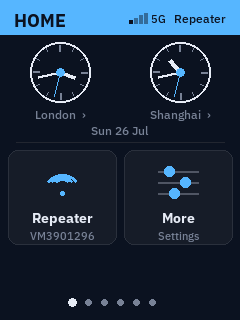
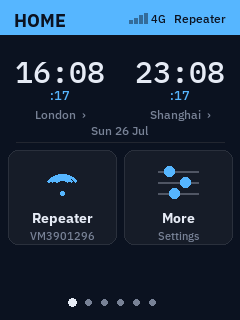
Update README/screenshots for digital-default clock and OpenClash button
- panel_clock.png now shows digital (the new default) instead of analog;
  renamed the analog example to panel_clock_analog.png so the Home hero
  image and the Digital/Analog comparison table both stay accurate
  rather than silently showing the same style twice.
- Refreshed panel_openclash.png (Update Subscription button, no more
  luci/IP line) and documented both this release's changes in the
  Panels section.

diff --git a/README.md b/README.md
@@ -22,13 +22,13 @@ RGB565). Pure Python, one file.
 | ![Monitor](screenshots/panel_monitor.png) | ![Currency](screenshots/panel_fx.png) | ![OpenClash](screenshots/panel_openclash.png) |
 
 **Home** — two small clocks (independently pickable cities/timezones,
-switchable between analog and digital from More), today's date, and two
-tiles: **Repeater** and **More**, so you never need the stock GL.iNet home
-page.
+digital by default, switchable to analog from More), today's date, and
+two tiles: **Repeater** and **More**, so you never need the stock GL.iNet
+home page.
 
-| Analog | Digital |
+| Digital (default) | Analog |
 |---|---|
-| ![Analog clock](screenshots/panel_clock.png) | ![Digital clock](screenshots/panel_clock_digital.png) |
+| ![Digital clock](screenshots/panel_clock.png) | ![Analog clock](screenshots/panel_clock_analog.png) |
 
 **Active SIM** — country flag, full number, and three toggles: **Net**
 (network registration/attach — SMS and calls work even without a
@@ -66,21 +66,24 @@ year, pulled from [Frankfurter](https://frankfurter.dev), ECB reference
 rates).
 
 **OpenClash** — on/off, Global/Rule mode, current node (flag + guessed
-country from the node name) with a tap-to-switch node list, and session
-traffic — all read from Mihomo's local REST API. Gracefully shows "not
-installed" instead of breaking if OpenClash isn't on the device.
+country from the node name) with a tap-to-switch node list, session
+traffic, and an **Update Subscription** button (runs the same script
+LuCI's own subscription page does — re-fetches every configured
+subscription, reloads if changed) — all read from Mihomo's local REST
+API. Gracefully shows "not installed" instead of breaking if OpenClash
+isn't on the device.
 
 | Repeater | More | On-screen keyboard |
 |---|---|---|
 | ![Repeater](screenshots/panel_repeater.png) | ![More](screenshots/panel_more.png) | ![Keyboard](screenshots/panel_keyboard.png) |
 
-**Repeater** (from the Home tile) — scans and lists nearby WiFi, connects to
-open networks directly or opens the on-screen keyboard for a password.
-Uses the same `ubus` `repeater` object the stock GL.iNet UI uses.
-Reconnecting to a previously-connected network doesn't ask for the
-password again — `remember: true` on connect already persists credentials
-to `/etc/config/repeater`; the UI checks there first before falling back
-to the keyboard.
+**Repeater** (from the Home tile) — scans and lists nearby WiFi as a real
+scrollable list, connects to open networks directly or opens the
+on-screen keyboard for a password. Uses the same `ubus` `repeater` object
+the stock GL.iNet UI uses. Reconnecting to a previously-connected network
+doesn't ask for the password again — `remember: true` on connect already
+persists credentials to `/etc/config/repeater`; the UI checks there first
+before falling back to the keyboard.
 
 **More** (from the Home tile) — 2.4GHz/5GHz radio toggles, an Analog/Digital
 clock-style switch, a **Return to Stock UI** button (switches back
